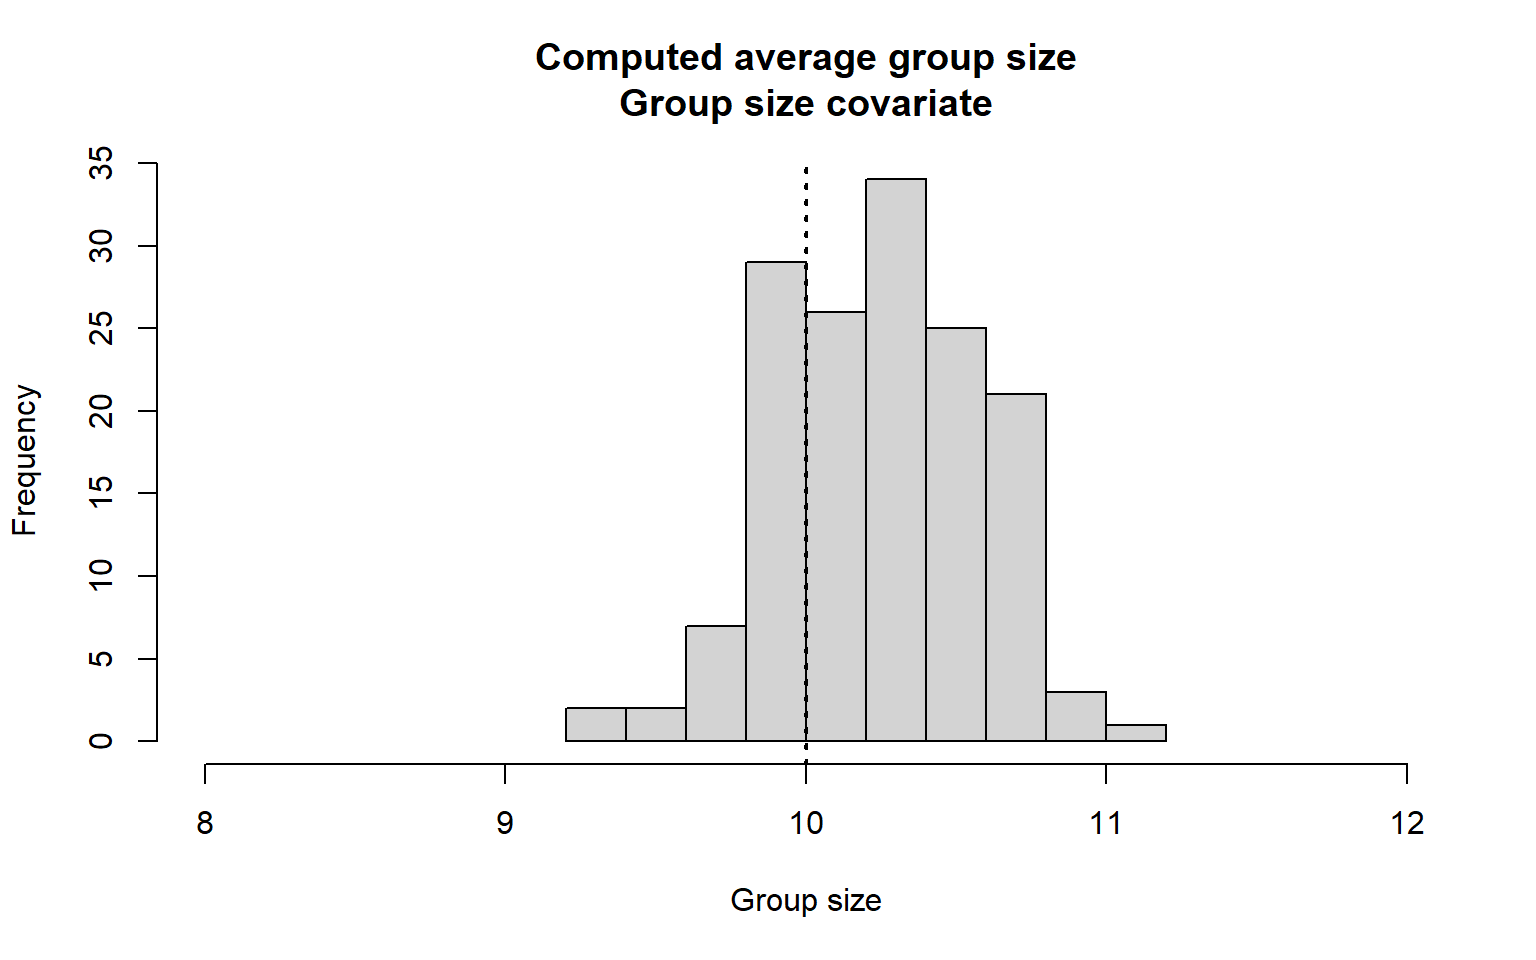
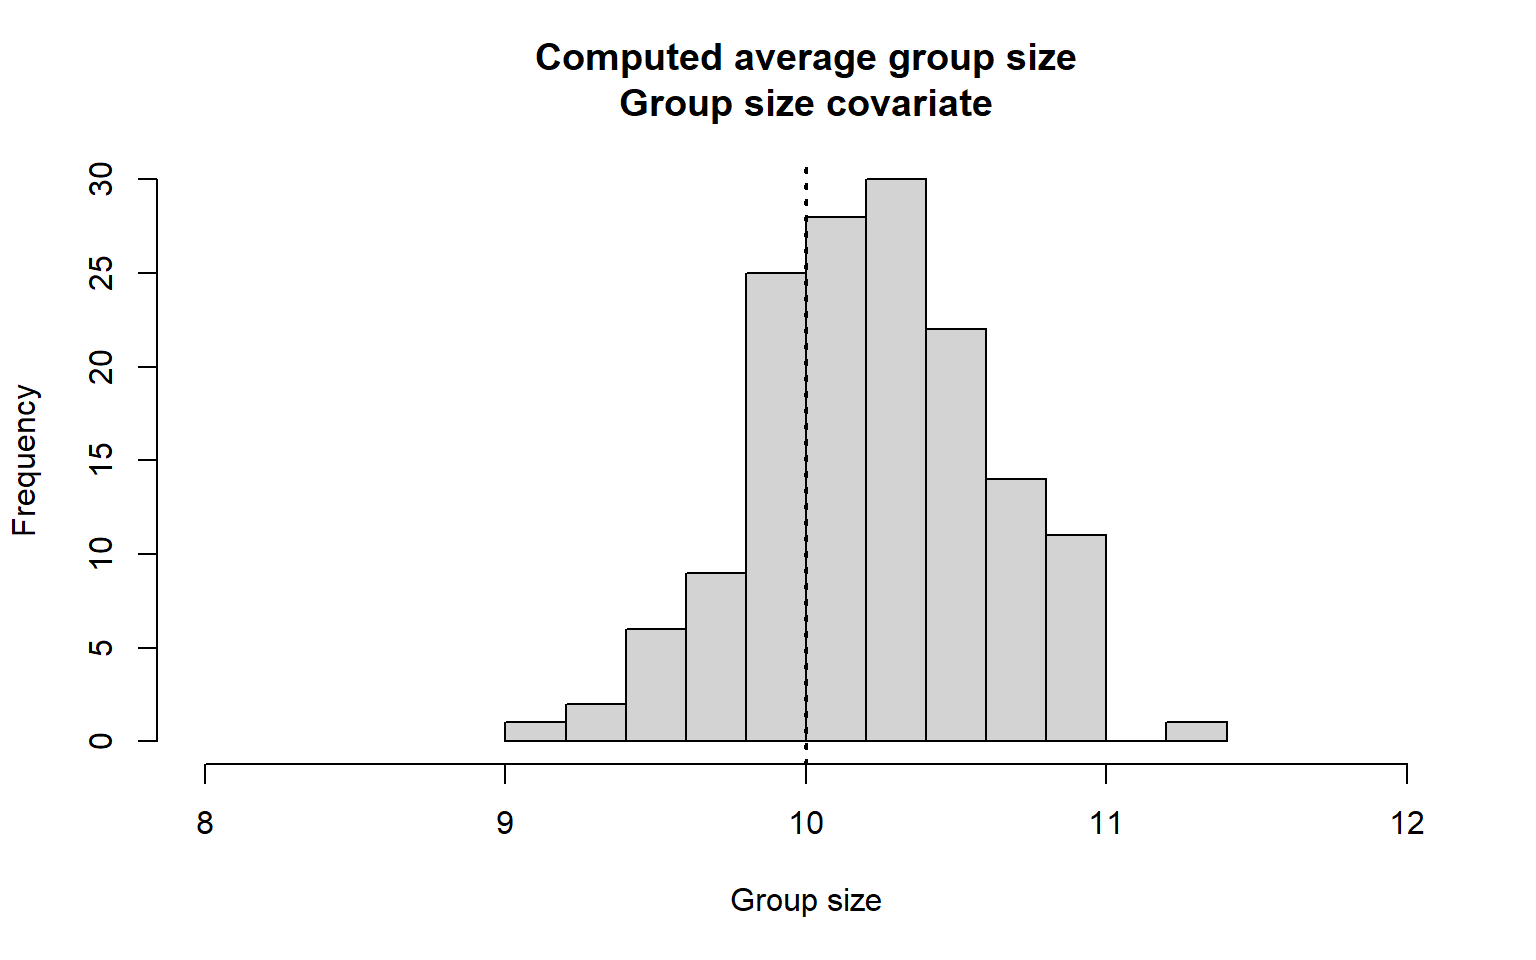
mystery soln

diff --git a/docs/Pr8/Group-size-covariate.html b/docs/Pr8/Group-size-covariate.html
@@ -2,14 +2,14 @@
 <html xmlns="http://www.w3.org/1999/xhtml" lang="en" xml:lang="en"><head>
 
 <meta charset="utf-8">
-<meta name="generator" content="quarto-1.1.189">
+<meta name="generator" content="quarto-1.2.269">
 
 <meta name="viewport" content="width=device-width, initial-scale=1.0, user-scalable=yes">
 
 <meta name="author" content="Centre for Research into Ecological and Environmental Modelling   University of St Andrews">
-<meta name="dcterms.date" content="2022-12-01">
+<meta name="dcterms.date" content="2023-01-18">
 
-<title>Distance sampling lab book - Size bias—how large is the problem?</title>
+<title>Distance sampling workshop - Size bias—how large is the problem?</title>
 <style>
 code{white-space: pre-wrap;}
 span.smallcaps{font-variant: small-caps;}
@@ -137,7 +137,7 @@ code span.wa { color: #60a0b0; font-weight: bold; font-style: italic; } /* Warni
       <div class="navbar-container container-fluid">
       <div class="navbar-brand-container">
     <a class="navbar-brand" href="../index.html">
-    <span class="navbar-title">Distance sampling lab book</span>
+    <span class="navbar-title">Distance sampling workshop</span>
     </a>
   </div>
           <button class="navbar-toggler" type="button" data-bs-toggle="collapse" data-bs-target="#navbarCollapse" aria-controls="navbarCollapse" aria-expanded="false" aria-label="Toggle navigation" onclick="if (window.quartoToggleHeadroom) { window.quartoToggleHeadroom(); }">
@@ -146,34 +146,44 @@ code span.wa { color: #60a0b0; font-weight: bold; font-style: italic; } /* Warni
           <div class="collapse navbar-collapse" id="navbarCollapse">
             <ul class="navbar-nav navbar-nav-scroll me-auto">
   <li class="nav-item">
-    <a class="nav-link" href="../Pr1/sampling.html">Sampling</a>
+    <a class="nav-link" href="../Pr1/sampling.html">
+ <span class="menu-text">Sampling</span></a>
   </li>  
   <li class="nav-item">
-    <a class="nav-link" href="../Pr2/detnfns.html">Detection functions</a>
+    <a class="nav-link" href="../Pr2/detnfns.html">
+ <span class="menu-text">Detection functions</span></a>
   </li>  
   <li class="nav-item">
-    <a class="nav-link" href="../Pr3/criticism.html">Criticism</a>
+    <a class="nav-link" href="../Pr3/criticism.html">
+ <span class="menu-text">Criticism</span></a>
   </li>  
   <li class="nav-item">
-    <a class="nav-link" href="../Pr4/precision.html">Precision</a>
+    <a class="nav-link" href="../Pr4/precision.html">
+ <span class="menu-text">Precision</span></a>
   </li>  
   <li class="nav-item">
-    <a class="nav-link" href="../Pr5/points.html">Points</a>
+    <a class="nav-link" href="../Pr5/points.html">
+ <span class="menu-text">Points</span></a>
   </li>  
   <li class="nav-item">
-    <a class="nav-link" href="../Pr6/design.html">Design</a>
+    <a class="nav-link" href="../Pr6/design.html">
+ <span class="menu-text">Design</span></a>
   </li>  
   <li class="nav-item">
-    <a class="nav-link" href="../Pr7/strata.html">Strata</a>
+    <a class="nav-link" href="../Pr7/strata.html">
+ <span class="menu-text">Strata</span></a>
   </li>  
   <li class="nav-item">
-    <a class="nav-link active" href="../Pr8/covariates.html" aria-current="page">Covariates</a>
+    <a class="nav-link active" href="../Pr8/covariates.html" aria-current="page">
+ <span class="menu-text">Covariates</span></a>
   </li>  
   <li class="nav-item">
-    <a class="nav-link" href="../Pr9/multipliers.html">Multipliers</a>
+    <a class="nav-link" href="../Pr9/multipliers.html">
+ <span class="menu-text">Multipliers</span></a>
   </li>  
   <li class="nav-item">
-    <a class="nav-link" href="../extras/extras.html">Extras</a>
+    <a class="nav-link" href="../extras/extras.html">
+ <span class="menu-text">Extras</span></a>
   </li>  
 </ul>
               <div id="quarto-search" class="" title="Search"></div>
@@ -266,9 +276,10 @@ code span.wa { color: #60a0b0; font-weight: bold; font-style: italic; } /* Warni
     <div>
     <div class="quarto-title-meta-heading">Published</div>
     <div class="quarto-title-meta-contents">
-      <p class="date">December 1, 2022</p>
+      <p class="date">January 18, 2023</p>
     </div>
   </div>
+  
     
   </div>
   
@@ -329,13 +340,30 @@ Supplement
 <h2 class="anchored" data-anchor-id="analysis-including-group-size-covariate">Analysis including group size covariate</h2>
 <div class="cell">
 <div class="sourceCode cell-code" id="cb2"><pre class="sourceCode r code-with-copy"><code class="sourceCode r"><span id="cb2-1"><a href="#cb2-1" aria-hidden="true" tabindex="-1"></a>runsim.cov <span class="ot">&lt;-</span> <span class="fu">run.simulation</span>(size.cov, <span class="at">run.parallel =</span> <span class="cn">TRUE</span>)</span></code><button title="Copy to Clipboard" class="code-copy-button"><i class="bi"></i></button></pre></div>
+<div class="cell-output cell-output-stderr">
+<pre><code>Summary of warnings and errors:</code></pre>
+</div>
+<div class="cell-output cell-output-stderr">
+<pre><code>Error: No models could be fitted. (Model number: 1) (occurred 1 time(s) in repetition(s):  80)</code></pre>
+</div>
+<div class="cell-output cell-output-stderr">
+<pre><code>simpleWarning in ddf.ds(model = dsmodel, data, meta.data = meta.data, control = control, : Model fitting did not converge. Try different initial values or different model
+
+ (Model number: 1) (occurred 1 time(s) in repetition(s):  80)</code></pre>
+</div>
+<div class="cell-output cell-output-stderr">
+<pre><code>None of the models converged for this dataset. (occurred 1 time(s) in repetition(s):  80)</code></pre>
+</div>
+<div class="cell-output cell-output-stderr">
+<pre><code>-----</code></pre>
+</div>
 </div>
 <div class="cell">
 <div class="cell-output-display">
 <p><img src="Group-size-covariate_files/figure-html/small-with-covar-1.png" class="img-fluid" width="768"></p>
 </div>
 </div>
-<p>The distribution of computed average group size centred on the true size of 10 and there was no problem with fitting a detection function. The average over the simulations estimated number of individuals was 2235.07.</p>
+<p>The distribution of computed average group size centred on the true size of 10 and there was no problem with fitting a detection function. The average over the simulations estimated number of individuals was 2246.52.</p>
 </section>
 <section id="analysis-without-group-size-covariate" class="level2">
 <h2 class="anchored" data-anchor-id="analysis-without-group-size-covariate">Analysis without group size covariate</h2>
@@ -345,7 +373,7 @@ Supplement
 <p><img src="Group-size-covariate_files/figure-html/nocov-10-1.png" class="img-fluid" width="768"></p>
 </div>
 </div>
-<p>The distribution of computed average groups sizes is shown above. We would expect an overestimate of mean group size because small groups at large distances are missing from our sample; but that effect is small in this instance. As a consequence, the average <span class="math inline">\(\hat{N}_{indiv}\)</span> across all simulations is 2297.36.</p>
+<p>The distribution of computed average groups sizes is shown above. We would expect an overestimate of mean group size because small groups at large distances are missing from our sample; but that effect is small in this instance. As a consequence, the average <span class="math inline">\(\hat{N}_{indiv}\)</span> across all simulations is 2307.19.</p>
 </section>
 </section>
 <section id="example-2-possible-dolphin-pods-or-seabird-rafts" class="level1">
@@ -373,7 +401,7 @@ Supplement
 <p><img src="Group-size-covariate_files/figure-html/unnamed-chunk-11-1.png" class="img-fluid" width="672"></p>
 </div>
 </div>
-<p>When including <code>size</code> as a covariate, estimates of average group size are not affected (figure above). Likewise, mean <span class="math inline">\(\hat{N}_{indiv}\)</span> is effectively unbiased: 5462.57.</p>
+<p>When including <code>size</code> as a covariate, estimates of average group size are not affected (figure above). Likewise, mean <span class="math inline">\(\hat{N}_{indiv}\)</span> is effectively unbiased: 5640.44.</p>
 </section>
 <section id="analysis-without-the-covariate" class="level2">
 <h2 class="anchored" data-anchor-id="analysis-without-the-covariate">Analysis without the covariate</h2>
@@ -382,7 +410,7 @@ Supplement
 <p><img src="Group-size-covariate_files/figure-html/lognor-without-1.png" class="img-fluid" width="672"></p>
 </div>
 </div>
-<p>Now mean <span class="math inline">\(\hat{N}_{indiv}\)</span> is <strong>considerably biased</strong>: 5744.95, 30.9 percent larger than the true number of individuals in the population, 4388.</p>
+<p>Now mean <span class="math inline">\(\hat{N}_{indiv}\)</span> is <strong>considerably biased</strong>: 5802.93, 32.2 percent larger than the true number of individuals in the population, 4388.</p>
 <div class="cell">
 <div class="cell-output-display">
 <p><img src="Group-size-covariate_files/figure-html/unnamed-chunk-13-1.png" class="img-fluid" width="672"></p>
@@ -439,7 +467,24 @@ window.document.addEventListener("DOMContentLoaded", function (event) {
     button.classList.add('code-copy-button-checked');
     var currentTitle = button.getAttribute("title");
     button.setAttribute("title", "Copied!");
+    let tooltip;
+    if (window.bootstrap) {
+      button.setAttribute("data-bs-toggle", "tooltip");
+      button.setAttribute("data-bs-placement", "left");
+      button.setAttribute("data-bs-title", "Copied!");
+      tooltip = new bootstrap.Tooltip(button, 
+        { trigger: "manual", 
+          customClass: "code-copy-button-tooltip",
+          offset: [0, -8]});
+      tooltip.show();    
+    }
     setTimeout(function() {
+      if (tooltip) {
+        tooltip.hide();
+        button.removeAttribute("data-bs-title");
+        button.removeAttribute("data-bs-toggle");
+        button.removeAttribute("data-bs-placement");
+      }
       button.setAttribute("title", currentTitle);
       button.classList.remove('code-copy-button-checked');
     }, 1000);
@@ -475,24 +520,42 @@ window.document.addEventListener("DOMContentLoaded", function (event) {
       return note.innerHTML;
     });
   }
+  const findCites = (el) => {
+    const parentEl = el.parentElement;
+    if (parentEl) {
+      const cites = parentEl.dataset.cites;
+      if (cites) {
+        return {
+          el,
+          cites: cites.split(' ')
+        };
+      } else {
+        return findCites(el.parentElement)
+      }
+    } else {
+      return undefined;
+    }
+  };
   var bibliorefs = window.document.querySelectorAll('a[role="doc-biblioref"]');
   for (var i=0; i<bibliorefs.length; i++) {
     const ref = bibliorefs[i];
-    const cites = ref.parentNode.getAttribute('data-cites').split(' ');
-    tippyHover(ref, function() {
-      var popup = window.document.createElement('div');
-      cites.forEach(function(cite) {
-        var citeDiv = window.document.createElement('div');
-        citeDiv.classList.add('hanging-indent');
-        citeDiv.classList.add('csl-entry');
-        var biblioDiv = window.document.getElementById('ref-' + cite);
-        if (biblioDiv) {
-          citeDiv.innerHTML = biblioDiv.innerHTML;
-        }
-        popup.appendChild(citeDiv);
+    const citeInfo = findCites(ref);
+    if (citeInfo) {
+      tippyHover(citeInfo.el, function() {
+        var popup = window.document.createElement('div');
+        citeInfo.cites.forEach(function(cite) {
+          var citeDiv = window.document.createElement('div');
+          citeDiv.classList.add('hanging-indent');
+          citeDiv.classList.add('csl-entry');
+          var biblioDiv = window.document.getElementById('ref-' + cite);
+          if (biblioDiv) {
+            citeDiv.innerHTML = biblioDiv.innerHTML;
+          }
+          popup.appendChild(citeDiv);
+        });
+        return popup.innerHTML;
       });
-      return popup.innerHTML;
-    });
+    }
   }
 });
 </script>

diff --git a/docs/announce.html b/docs/announce.html
@@ -224,7 +224,29 @@ ul.task-list li input[type="checkbox"] {
 
 <div class="quarto-listing quarto-listing-container-grid" id="listing-listing">
 <div class="list grid quarto-listing-cols-3">
-<div class="g-col-1" data-index="0" data-listing-date-sort="1673740800000" data-listing-file-modified-sort="1673794372158" data-listing-reading-time-sort="1.21">
+<div class="g-col-1" data-index="0" data-listing-date-sort="1674086400000" data-listing-file-modified-sort="1674146993329" data-listing-reading-time-sort="4.975">
+<a href="./announce/2023-01-02-mysterysoln/index.html" class="quarto-grid-link">
+<div class="quarto-grid-item card h-100 card-left">
+<p class="card-img-top">
+<img src="https://images.unsplash.com/photo-1443521156453-f82c842b6e7f?ixlib=rb-4.0.3&amp;ixid=MnwxMjA3fDB8MHxjb2xsZWN0aW9uLXBhZ2V8NjB8NDcxMTQ0NHx8ZW58MHx8fHw%3D&amp;auto=format&amp;fit=crop&amp;w=500&amp;q=60" class="thumbnail-image card-img" style="height: 300px;">
+</p>
+<div class="card-body post-contents">
+<h5 class="no-anchor card-title listing-title">
+Solution to mystery analysis
+</h5>
+<div class="card-text listing-description">
+Remember, the most important aspect of this exercise is the workflow that you followed, the decisions you made and the support (evidence) used to support those decisions.
+</div>
+<div class="card-attribution card-text-small end">
+<div class="listing-date">
+Jan 19, 2023
+</div>
+</div>
+</div>
+</div>
+</a>
+</div>
+<div class="g-col-1" data-index="1" data-listing-date-sort="1673740800000" data-listing-file-modified-sort="1673794372158" data-listing-reading-time-sort="1.21">
 <a href="./announce/2023-01-15-cameraeffort/index.html" class="quarto-grid-link">
 <div class="quarto-grid-item card h-100 card-left">
 <p class="card-img-top">
@@ -246,7 +268,7 @@ Jan 15, 2023
 </div>
 </a>
 </div>
-<div class="g-col-1" data-index="1" data-listing-date-sort="1672444800000" data-listing-file-modified-sort="1673529540525" data-listing-reading-time-sort="1.08">
+<div class="g-col-1" data-index="2" data-listing-date-sort="1672444800000" data-listing-file-modified-sort="1673529540525" data-listing-reading-time-sort="1.08">
 <a href="./announce/2022-12-31-humpbacks/index.html" class="quarto-grid-link">
 <div class="quarto-grid-item card h-100 card-left">
 <p class="card-img-top">
@@ -268,7 +290,7 @@ Dec 31, 2022
 </div>
 </a>
 </div>
-<div class="g-col-1" data-index="2" data-listing-date-sort="1672444800000" data-listing-file-modified-sort="1673529586923" data-listing-reading-time-sort="0.745">
+<div class="g-col-1" data-index="3" data-listing-date-sort="1672444800000" data-listing-file-modified-sort="1673529586923" data-listing-reading-time-sort="0.745">
 <a href="./announce/2022-12-31-modelsel/index.html" class="quarto-grid-link">
 <div class="quarto-grid-item card h-100 card-left">
 <p class="card-img-top">
@@ -290,7 +312,7 @@ Dec 31, 2022
 </div>
 </a>
 </div>
-<div class="g-col-1" data-index="3" data-listing-date-sort="1672272000000" data-listing-file-modified-sort="1672330152442" data-listing-reading-time-sort="1.695">
+<div class="g-col-1" data-index="4" data-listing-date-sort="1672272000000" data-listing-file-modified-sort="1672330152442" data-listing-reading-time-sort="1.695">
 <a href="./announce/2022-12-29-quarto/index.html" class="quarto-grid-link">
 <div class="quarto-grid-item card h-100 card-left">
 <p class="card-img-top">
@@ -312,7 +334,7 @@ Dec 29, 2022
 </div>
 </a>
 </div>
-<div class="g-col-1" data-index="4" data-listing-date-sort="1672272000000" data-listing-file-modified-sort="1672330298091" data-listing-reading-time-sort="1.69">
+<div class="g-col-1" data-index="5" data-listing-date-sort="1672272000000" data-listing-file-modified-sort="1672330298091" data-listing-reading-time-sort="1.69">
 <a href="./announce/2022-12-29-tutorials/index.html" class="quarto-grid-link">
 <div class="quarto-grid-item card h-100 card-left">
 <p class="card-img-top">
@@ -334,7 +356,7 @@ Dec 29, 2022
 </div>
 </a>
 </div>
-<div class="g-col-1" data-index="5" data-listing-date-sort="1669766400000" data-listing-file-modified-sort="1669909786044" data-listing-reading-time-sort="0.34">
+<div class="g-col-1" data-index="6" data-listing-date-sort="1669766400000" data-listing-file-modified-sort="1669909786044" data-listing-reading-time-sort="0.34">
 <a href="./announce/2022-11-30-announce1/index.html" class="quarto-grid-link">
 <div class="quarto-grid-item card h-100 card-left">
 <p class="card-img-top">

diff --git a/docs/announce/2023-01-02-mysterysoln/index.html b/docs/announce/2023-01-02-mysterysoln/index.html
@@ -7,7 +7,7 @@
 <meta name="viewport" content="width=device-width, initial-scale=1.0, user-scalable=yes">
 
 <meta name="author" content="Eric Rexstad">
-<meta name="dcterms.date" content="2023-01-02">
+<meta name="dcterms.date" content="2023-01-19">
 <meta name="description" content="Remember, the most important aspect of this exercise is the workflow that you followed, the decisions you made and the support (evidence) used to support those decisions.">
 
 <title>Distance sampling workshop - Solution to mystery analysis</title>
@@ -221,7 +221,7 @@ code span.wa { color: #60a0b0; font-weight: bold; font-style: italic; } /* Warni
       <div>
       <div class="quarto-title-meta-heading">Published</div>
       <div class="quarto-title-meta-contents">
-        <p class="date">January 2, 2023</p>
+        <p class="date">January 19, 2023</p>
       </div>
     </div>
     
@@ -671,7 +671,7 @@ N in covered region 70.5283160 13.91222961 0.1972574</code></pre>
 <p><img src="index_files/figure-html/plotit-1.png" class="img-fluid" width="672"></p>
 </div>
 </div>
-<p>Confidence interval bounds from bootstrap are (124, 405), somewhat wider than the analytical confidence interval bounds specified above.</p>
+<p>Confidence interval bounds from bootstrap are (123, 399), somewhat wider than the analytical confidence interval bounds specified above.</p>
 </section>
 <section id="closest-aic-score-competitor-hazard-rate-with-sex-covariate" class="level2">
 <h2 class="anchored" data-anchor-id="closest-aic-score-competitor-hazard-rate-with-sex-covariate">Closest AIC score competitor, Hazard rate with sex covariate</h2>
